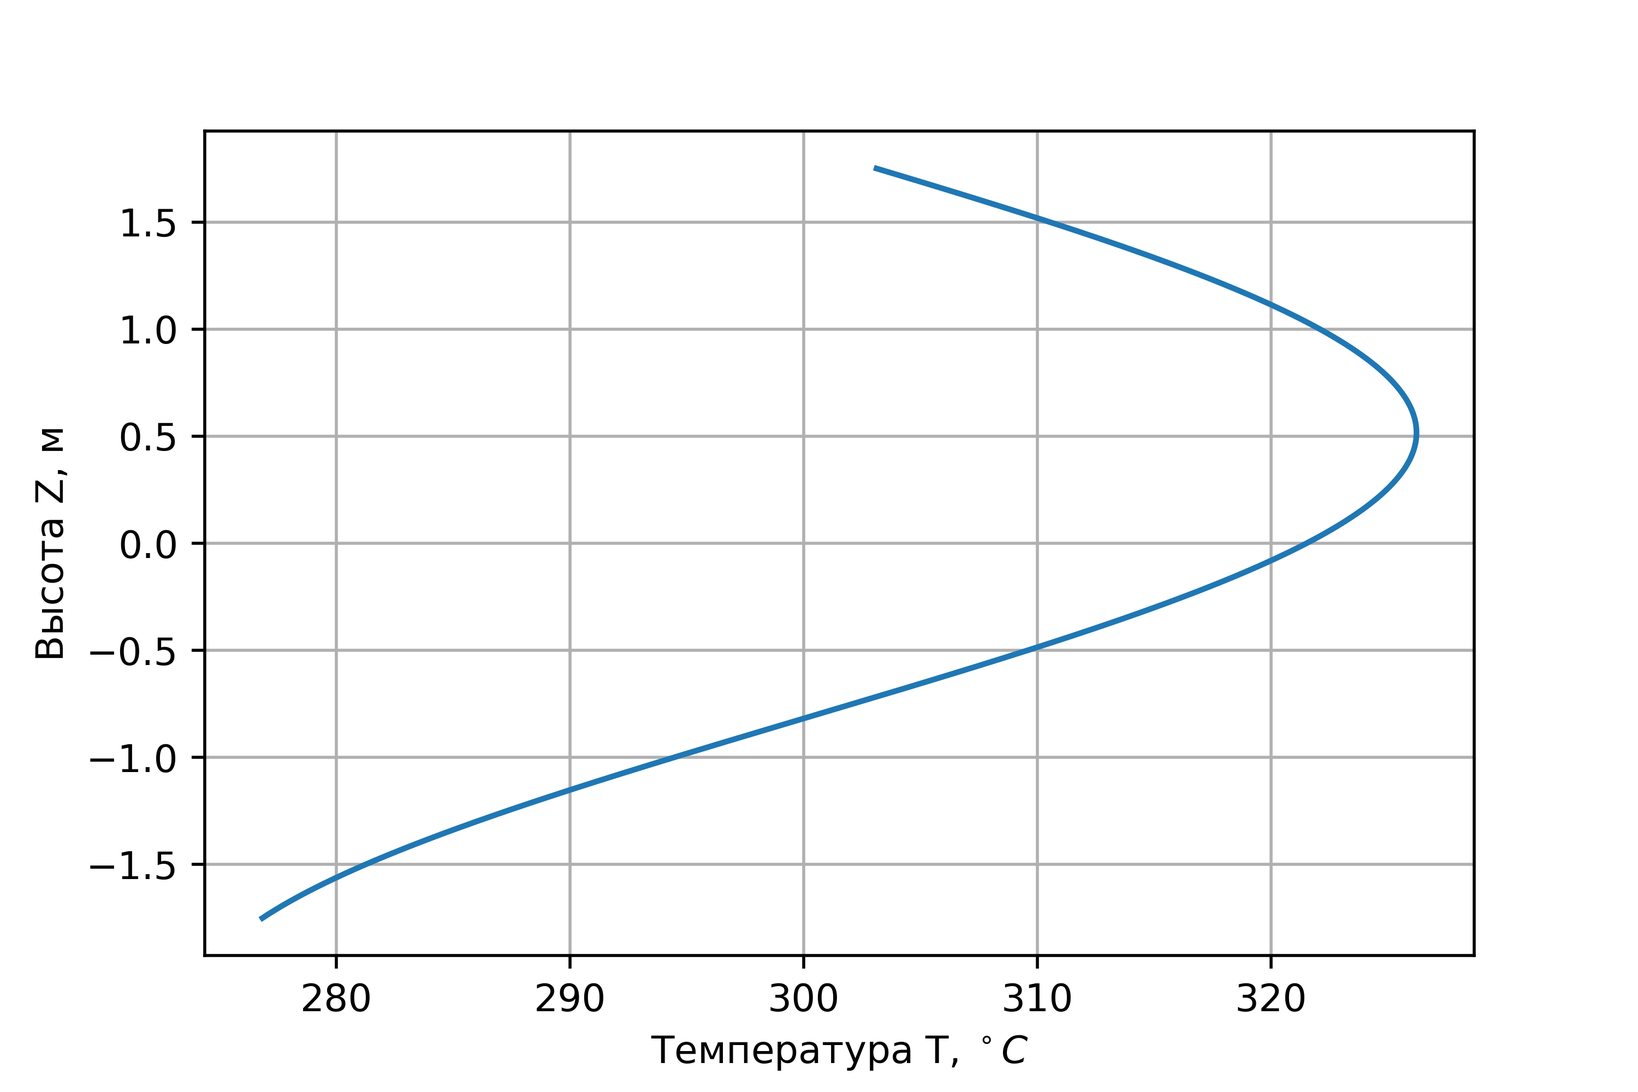
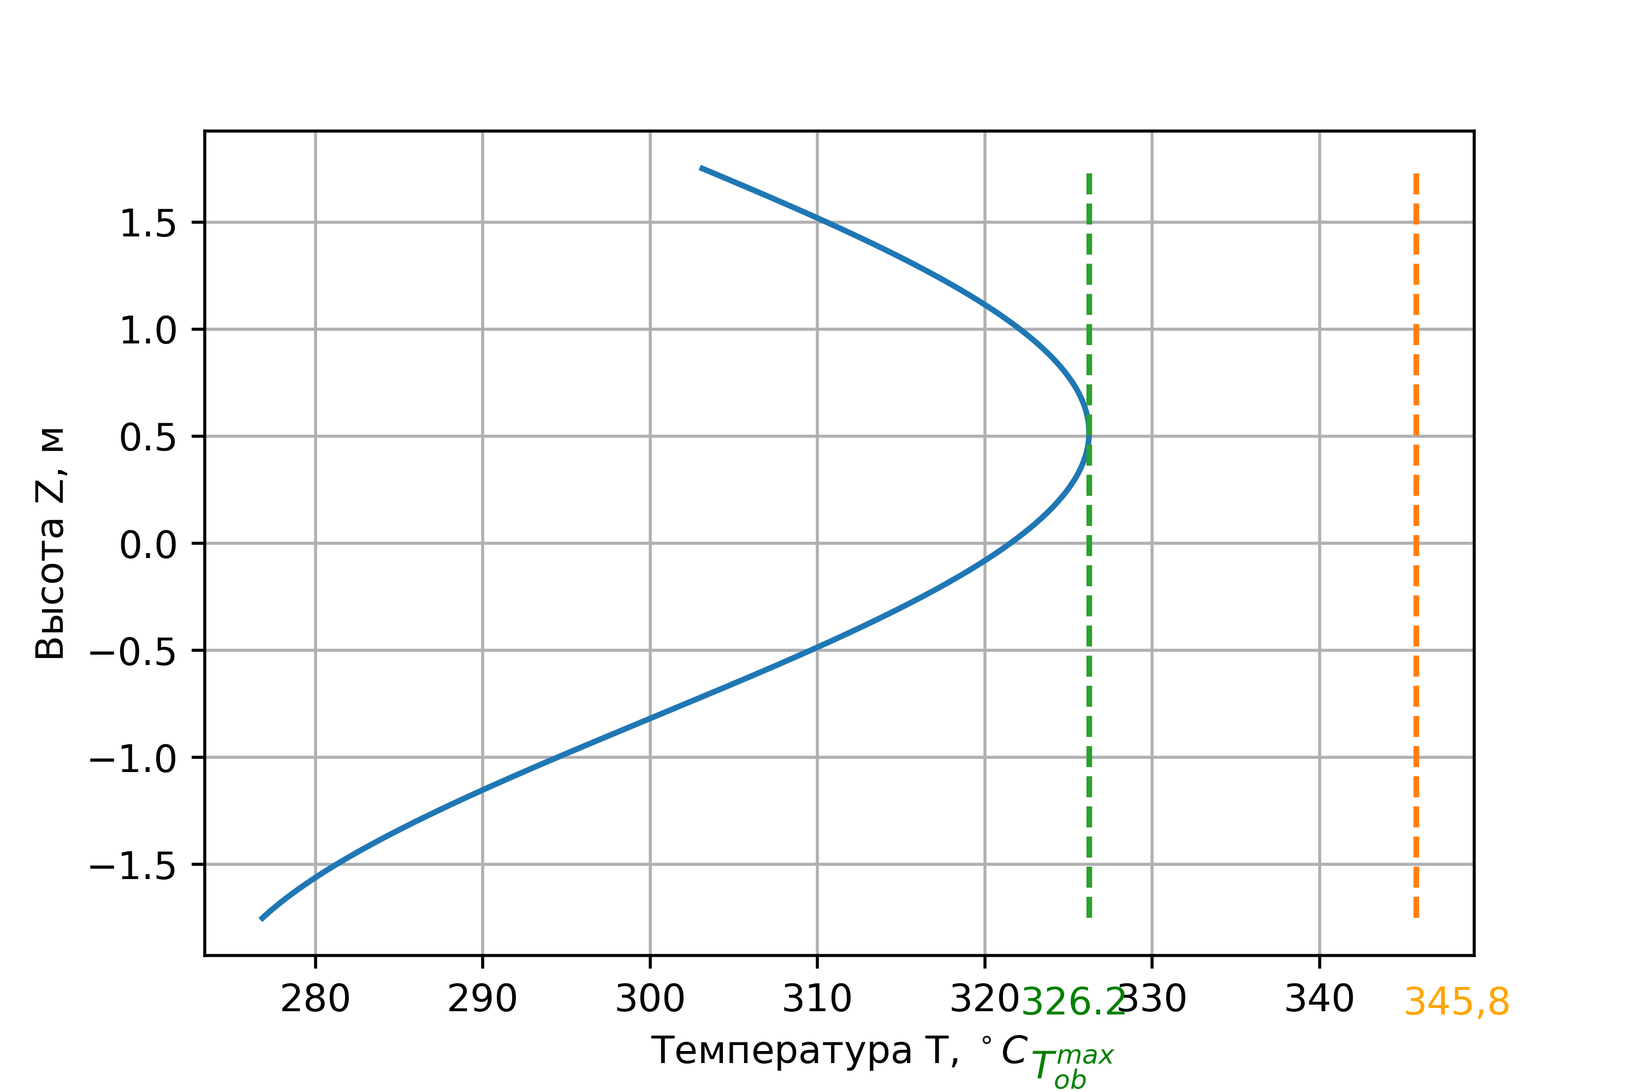
осталось пару формул в конце, заключение и введение

diff --git a/content.tex b/content.tex
@@ -38,9 +38,9 @@ IN PROGRESS...
          \hline
          Электрическая мощность реактора, МВт & 1000 \\
          \hline\ 
-         Температура теплоносителя на входе в АЗ,$^\circ C$  & 287 \\ 
+         Температура теплоносителя на входе в АЗ $T_{\text{вх}}$, $^\circ C$  & 287 \\ 
          \hline\
-         Температура теплоносителя на выходе АЗ, $^\circ C$ & 320 \\ 
+         Температура теплоносителя на выходе АЗ $T_{\text{вых}}$, $^\circ C$ & 320 \\ 
          \hline
          Температура питательной воды, , $^\circ C$ & 220 \\ 
          \hline
@@ -56,35 +56,39 @@ IN PROGRESS...
          \hline
          Количество петель РУ & 4 \\ 
          \hline
-         Число ТВС, шт & 163 \\ 
+         Число ТВС $N_{\text{ТВС}}$, шт  & 163 \\ 
          \hline
-         Число твэл в ТВС, шт & 317 \\ 
+         Число твэл в ТВС $N_{\text{твэл}}$, шт & 317 \\ 
          \hline
-         Коэффициент неравномерности по высоте АЗ & 1.5 \\ 
+         Коэффициент неравномерности по высоте АЗ  & 1.5 \\ 
          \hline
          Коэффициент неравномерности по радиусу АЗ & 1.25 \\ 
          \hline
-         Высота АЗ, м & 3.5 \\ 
+         Высота АЗ $H_{\text{AZ}}$, м & 3.5 \\ 
          \hline
-         Диаметр твэл, мм & 9.1 \\ 
+         Диаметр твэл $d_{\text{тв}}$, мм & 9.1 \\ 
          \hline
-         Размер ТВС «под ключ», мм & 234 \\ 
+         Размер ТВС «под ключ» $a$, мм & 234 \\ 
          \hline
-         Диаметр центрального канала в ТВС, мм & 10.3 \\ 
+         Диаметр центрального канала в ТВС $D_{\text{ц.к}}$, мм & 10.3 \\ 
          \hline
-         Число направляющих каналов в ТВС, шт & 12 \\ 
+         Число направляющих каналов в ТВС $N_{\text{н.к.}}$, шт & 12 \\ 
          \hline
-         Шаг решетки ТВС, мм & 12,75 \\ 
+         Шаг решетки ТВС $S_m$, мм & 12,75 \\ 
          \hline
-         Диаметр направляющего канала в ТВС, мм & 12.6 \\ 
+         Диаметр направляющего канала в ТВС $D_{\text{н.к}}$, мм & 12.6 \\ 
          \hline
-         Толщина оболочки твэл, мм & 0.65 \\ 
+         Толщина оболочки твэл $\delta_{\text{твэл}}$, мм & 0.65 \\ 
          \hline
-         Толщина газового зазора в твэл, мм & 0.135 \\ 
+         Толщина газового зазора в твэл $\delta_{\text{г}}$, мм & 0.135 \\ 
          \hline
-         Диаметр топливной таблетки, мм. & 7.53 \\ 
+         Диаметр топливной таблетки $d_{\text{топ}}$, мм. & 7.53 \\ 
          \hline
-         Диаметр отверстия топливной таблетки, мм & 1.3 \\ 
+         Диаметр отверстия топливной таблетки $d_{\text{\text{отв}}}$, мм & 1.3 \\ 
+        %  \hline
+        %  Число СУЗ $N_{\text{СУЗ}}$, шт & 109 \\ %сомнительная штука https://ru.wikipedia.org/wiki/%D0%92%D0%92%D0%AD%D0%A0-1000
+        %  \hline
+        %  Диаметр СУЗ $D_{\text{СУЗ}}$, мм & 8.2 \\
          \bottomrule
 		\end{tabular}
 		\label{tabular:data}
@@ -237,13 +241,172 @@ $$
 
 \noindent Расход теплоносителя через ТВС:
 $$
-G_{ТВС} = \frac {Q_{\text{теп}}} {(h_{\text{вх}} - h_{\text{вх}})N_{\text{ТВС}}} = [[B43]] 
+G_{ТВС} = \frac {Q_{\text{теп}}} {(h_{\text{вх}} - h_{\text{вх}})N_{\text{ТВС}}} = 89.67 \ \frac {\text{кг}}{\text{c}} 
+$$
+Расход теплоносителя через реактор:
+$$
+G_{\text{реак}} = \frac {Q_{\text{теп}}} {\left(h_{\text{вых}} - h_{\text{вх}}\right)} = 14615.6\ \frac{\text{кг}} {\text{с}}
+$$
+Средняя теплоемкость воды:
+$$
+C_p = \frac {h_{\text{вых}} - h_{\text{вх}}} {T_{\text{вых}} - T_{\text{вх}}} = 5606.06\ \frac{\text{Дж}} {\text{кг} \cdot \text{К}}
+$$
+\noindent Распределение температуры теплоносителя по высоте реактора:
+$$
+T_{ТН}(z) = T_{\text{вх}} + \frac {N_{\text{ТВС}}N_{\text{ТВЭЛ}}q_{\max}H_{\text{эф}}} {G_{\text{реак}}C_p\pi}\left[\sin \left(\frac {\pi z}{H_{\text{эф}}} \right) +\sin \left(\frac {\pi H_{\text{АЗ}}} {2H_{\text{эф}}} \right) \right]
+$$
+\noindent Отсюда максимальная температура жидкости $T_{\text{ТН}}^{max} = 315.092\  ^\circ C$.
+График изменения температуры теплоносителя по высоте представлен на \ref{pic:TZ}
+
+\begin{figure}[H]
+	\begin{center}
+		\includegraphics[]{Tz.png}
+		\caption{Изменение температуры теплоносителя по высоте}
+		\label{pic:TZ} % название для ссылок внутри кода
+	\end{center}
+\end{figure}
+
+Максимальная температура теплоносителя определяется из температуры кипения теплоносителя при давлении в активной зоне. Температура насыщения воды при давлении $15.7$ МПа — $345.8\  ^\circ C$. Отсюда следует что запас до кипения $\approx 31 ^\circ C$. 
+
+\subsection{Расчет распределения температуры внешней стенки оболочки по высоте}
+Площадь проходного сечения:
+$$
+S_{\text{прох}} = \sqrt{3}/2(a - 2 \cdot \delta)^2 - N_{\text{твэл}} \frac {\pi d^2_{\text{тв}}} {4} - N_{\text{н.к.}} \frac {\pi D_{\text{н.к}}^2} {4} - \frac {D_{\text{ц.тр}}^2\pi}{4} = 2.4 \cdot 10^4\ \text{мм}^2
 $$
 
+Периметр:
+$$
+\Pi= (2(a-2\delta)\sqrt{3}) - N_{\text {твэл }} \pi d_{\text {тв }}+N_{\text {н.к }} \pi D_{\text {н.к }}+\pi D_{\text {ц.к}}= 10370 \text{мм}
+$$
+Гидравлический диаметр:
+$$
+d_{\text{Г}} = \frac {4 S_{\text{прох}}}{\text{П}} = 9.26 \text{мм} 
+$$
+
+Определим коэффициент теплоотдачи в режиме турбулентного
+стационарного течения несжимаемой жидкости. По формуле Б.С.Петухова, В.В. Кириллова:
+    Число Рейнолдса:
+    $$
+    \operatorname{Re}=\frac{G_{\text {pear }} \cdot d_{\mathrm{r}}}{N_{\mathrm{TBC}} \cdot S_{\text {npox }} \cdot \mu} = 5.15 \cdot 10^5
+    $$
+    Коэффициент гидравлического сопротивления:
+    $$
+    \xi=(1,82 \cdot \log (\mathrm{Re})-1.64)^{-2}= 0.013
+    $$
+    Расчитываем число Нуссельта:
+    $$
+    \mathrm{Nu}=\frac{\frac{\xi}{8} \cdot \mathrm{Re} \cdot \operatorname{Pr}}{k+12.7 \cdot\left(\operatorname{Pr}^{\frac{2}{3}}-1\right) \cdot \sqrt{\frac{\xi}{8}}} = 976.059 
+    $$
+    Коэффициент теплоотдачи:
+    $$
+    \alpha_1 = \frac {Nu \lambda_{\text{ср}}} {d_{\text{г}}} = 4.71 \cdot 10^4 \frac{\text{Вт}}{\text{м}^2 \cdot K}
+    $$
+    По формуле Диттуса-Болтера:
+    $$
+    Nu = 0.023Re^{0.8}Pr^{0.4} = 973.598
+    $$
+    Коэффициент теплоотдачи:
+    $$
+    \alpha_2 = \frac {Nu \lambda_{\text{ср}}} {d_{\text{г}}} = 4.69 \cdot 10^4 \frac{\text{Вт}}{\text{м}^2 \cdot K}
+    $$
+    По формула М.А. Михеева:
+    $$
+    Nu = 0.021Re^{0.8}Pr^{0.43} = 897.762
+    $$
+    Коэффициент теплоотдачи:
+    $$
+    \alpha_3 = \frac {Nu \lambda_{\text{ср}}} {d_{\text{г}}} = 4.33 \cdot 10^4 \frac{\text{Вт}}{\text{м}^2 \cdot K}
+    $$
+    Усредним коэффициент теплоотдачи:
+    $$
+    \alpha = \frac {\alpha_1 + \alpha_2 + \alpha_3} {3} = 4.58 \cdot 10^4 \frac{\text{Вт}}{\text{м}^2 \cdot K}
+    $$
+    Распределение температуры внешней стенки твэла по высоте реактора:
+    $$
+    T_{\text {об }}(z)=T_{\text {тн }}(z)+\frac{q_{\max } \cdot \cos \left(\frac{\pi \cdot z}{H_{\ni \phi}}\right)}{\pi d_{\text {тв }} \alpha}
+    $$
+Распределение температуры внешней стенки
+твэла по высоте реактора представлено на \ref{pic:Tob}
+
+\begin{figure}[H]
+	\begin{center}
+		\includegraphics[]{Tob.png}
+		\caption{Изменение температуры стенки твэла по высоте}
+		\label{pic:Tob} % название для ссылок внутри кода
+	\end{center}
+\end{figure}
+
+ Из \ref{pic:Tob} видно, что максимальная температура $T_{\text{об}}^{\max} = 326.2 ^\circ C $ стенки достигается в $Z_{\max} = 0.517 м$. Отсюда можно сделать вывод о том, что также отсутствует поверхностное кипения теплоносителя.
+ %максимальная температура оболочки в условиях нормальной эксплуатации определяется прочностными и пластическими свойствами сплава и составляет сколь-кот то из справочника
+
+% Общий график для распределений теплоносителя и оболочки представлены на \ref{pic:obsh}
+
+% \begin{figure}[H]
+	% \begin{center}
+		% \includegraphics[]{Obsh.png}
+		% \caption{Изменение температуры стенки твэла и теплоносителя по высоте}
+		% \label{pic:obsh} % название для ссылок внутри кода
+	% \end{center}
+% \end{figure}
+    
+%NСУЗ — по числу отверстий в канале 
+
 \subsection{Расчет температуры топлива}
-
-\subsection{Расчет мощности, необходимой на прокачку теплоносителя}
-
+    Произведём расчет термического сопротивления оболочки, газового зазора и топлива:
+$$
+\sum R_i = 
+\frac {\ln \frac {d_{\text{тв}}}{d_{\text{тв}} - 2\delta_{ст}}  }{2\pi\lambda_{\text{об}}}+\frac {\ln \frac {d_{\text{тв}} - 2\delta_{ст}}{d_{\text{топ}}}  }{2\pi\lambda_{\text{г.з}}}+\frac {\frac 1 2 - \frac {d_{\text{отв}}^2} {d_{\text{топ}}^2 - d_{\text{отв}}^2}\ln \frac {d_{\text{топ}}}{d_{\text{отв}}}} {2 \pi \lambda_{\text{топ}}} = 0.04\  \frac{\text{м} \cdot \text{К}}{\text{Вт}}
+$$
+где
+\begin{itemize}
+    \item $\lambda_{\text{г.з.}} = 0.35\  \frac {\text{Вт}}{\text{м} \cdot \text{К}}$ — теплопроводность газового слоя 
+    \item $\lambda_{\text{об}} = 23\  \frac {\text{Вт}}{\text{м} \cdot \text{К}}$ — теплопроводность оболочки 
+    \item $\lambda_{\text{топ}} = 3\  \frac {\text{Вт}}{\text{м} \cdot \text{К}}$ — теплопроводность топлива
+    \item $\delta_{\text{г.з}} =\frac {d_{\text{твэл}} - 2\delta_{\text{об}} - d_{\text{топ}}}{2} =  3\  \frac {\text{Вт}}{\text{м} \cdot \text{К}}$ — толщина газового зазора 
+\end{itemize}
+Распределение температур в топливе по высоте активной зоны:
+$$
+T_{\text {топ }}(z)=T_{\mathrm{cr}}(z)+\Sigma R_{i} \cdot q_{\max } \cdot \cos \left(\frac{\pi \cdot z}{H_{\text {эф }}}\right)
+$$
+График изменения температуры топлива по высоте представлен на \ref{pic:top}
+\begin{figure}[H]
+	\begin{center}
+		\includegraphics[]{Ttop.png}
+		\caption{Изменение температуры топлива по высоте}
+		\label{pic:top} % название для ссылок внутри кода
+	\end{center}
+\end{figure}
+\subsection{Определение перепадов давления и необходимой мощности насосов на прокачку}
+Для того чтобы определить мощность на прокачку теплоносителя через реактор, найде перепад давления в ТВС
+Гидравлическое сопротивление трения:
+$$
+\Delta P_{\text{тр}} = \frac 1 {2 d_{\text{г}}} \cdot \left(\frac {G_{\text{ТВС}}}{N_{\text{ТВС}}S_{\text{прох}}}  \right)^2 \cdot \frac {\xi_{\text{тр}}} {\rho_{\text{ср}}} = 1.363 \cdot 10^4 \text{Па}
+$$
+Потеря напора на ускорение:
+$$
+\Delta P_{\mathrm{уск}}=\left(\frac{G}{N_{\mathrm{TBC}} \cdot S_{\mathrm{npox}}}\right)^{2} \cdot\left(\frac{1}{\rho_{\mathrm{вых}}}-\frac{1}{\rho_{\mathrm{вx}}}\right) = 1.94 \cdot 10^3 \text{Па}
+$$, где $\rho_{\text{вых}} = 680.8\  \frac {\text{кг}}{\text{м}^2} $, $\rho_{\text{вх}} =752.1\  \frac {\text{кг}}{\text{м}^2}$.
+Нивелирный напор:
+$$
+\Delta P_{\text {нив }}=\left(\rho_{\text{вх}}-\rho_{\text{вых}}\right) \cdot g \cdot H_{\text{аз}}=2.45 \cdot 10^{3} \text{Па}
+$$
+Местное сопротивление:
+$$
+\Delta P_{\mathrm{мест}}=\frac{\left(\frac{G}{N_{\mathrm{TBC}} \cdot S_{\mathrm{прох}}}\right)^{2}}{2} \cdot\left(\frac{\xi_{\mathrm{вх}}}{\rho_{\mathrm{вх}}}+\frac{13 \xi_{\mathrm{pem}}}{\rho_{\mathrm{ср}}}+\frac{\xi_{\mathrm{вых}}}{\rho_{\mathrm{вых}}}\right)=
+$$
+где $\xi_{\text{вх}}= 2.6 $ — коэффициент сопротивления на входе в кассету; $\xi_{\text{вых}} = 0.45$ — коэффициент сопротивления при проходе через дистанцирующую решетку %укажи количество дистанцирующих решеток
+Общее сопротивление каналов:
+$$
+\Delta P=\Delta P_{\mathrm{тр}}+\Delta P_{\mathrm{уск}}+\Delta P_{\text { нив }}+\Delta P_{\text {мест }} = 
+$$
+Мощность, необходимая для прокачки теплоносителя через весь реактор:
+$$
+N_{\mathrm{пр}}=N_{\mathrm{ТВС}} \frac{\Delta P \cdot G_{\mathrm{TBC}}}{\eta_{\text {нас }} \cdot \rho_{\mathrm{вх}}}=
+$$
+КПД реактора с учетом потерь на прокачку теплоносителя:
+$$
+\eta^{\prime}=\frac{Q_{\text {эл }}-N_{\text {пр }}}{Q_{\text {теп }}}
+$$
 % \subsection{Определение запаса до кризиса теплообмена}
 
 \subsection{Выводы из теплофизического расчета}

diff --git a/coursach.py b/coursach.py
@@ -7,6 +7,26 @@ import sys
 """
 
 
+def tex_exp(*a, after_comma=3):
+    """
+    принимает число, возвращает tex-код для экспоненциальной записи числа
+    """
+    container = []
+    for i in range(len(a)):
+        fmt = f'%.0{after_comma}e'
+        ae = str(fmt%a[i])
+        ae = ae.split('e')
+        if ae[1][0] == '+':
+            ae[1] = ae[1][1:]
+        if ae[1][0] == '0':
+            ae[1] = ae[1][1:]
+        if not int(ae[1]):
+            container.append(fr'{ae[0]} ')
+        else:
+            container.append(fr'{ae[0]} \cdot 10^{{ { ae[1] } }}')
+    return tuple(container)
+
+
 template = re.compile('\[\[[A-Z]+\d+\]\]')
 def replace_tokens(file_name, xls_name):
     with open(file_name, 'r') as f:
@@ -22,7 +42,8 @@ def replace_tokens(file_name, xls_name):
 
 def get_val_from_xls(xls, cell):
     db = xl.readxl(fn='./Курсач.xlsx')
-    db.ws(ws='Sheet1').address(address=cell[2:-2])
+    val = tex_exp(db.ws(ws='Sheet1').address(address=cell[2:-2]))
+    return val
     #получения значения по номеру ячейки. 
     pass
 

diff --git a/templates/titlepage.tex b/templates/titlepage.tex
@@ -16,7 +16,7 @@
 \raggedright
 Студент: \\[1cm]
 Руководитель: \\[0.5cm]
-Руководитель\\ со стороны кафедры: \\[1cm]
+Руководитель\\ со стороны 5 кафедры: \\[1cm]
 Рецензент \\[1cm]
 Зав. Кафедрой \\
 \end{minipage}%
@@ -24,7 +24,7 @@
 \raggedright
 Панин М.Д. \\[1cm]
 Маслов Ю.А. \\[0.5cm]
-\ \\ \  \\[1cm]
+Терновых М.Ю. \\ \  \\[1cm]
 \  \\[1cm]
 Харитонов В.С.\\
 \end{minipage}%

diff --git a/main.tex b/main.tex
@@ -2,6 +2,7 @@
 \documentclass[14pt,a4paper]{extarticle}
 % \documentclass[14pt,a4paper]{article}
 
+
 % Редактируем: конфигурация, личные настройки: имя, название предмета и пр. для титульной страницы и метаданных документа здесь
 \include{config}
 

diff --git a/settings/preferences.tex b/settings/preferences.tex
@@ -86,3 +86,6 @@
 
 % перенос знаков в формулах (по Львовскому)
 \newcommand*{\hm}[1]{#1\nobreak\discretionary{} {\hbox{$\mathsurround=0pt #1$}}{}}
+
+
+% \numberwithin{equation}{section}equation
